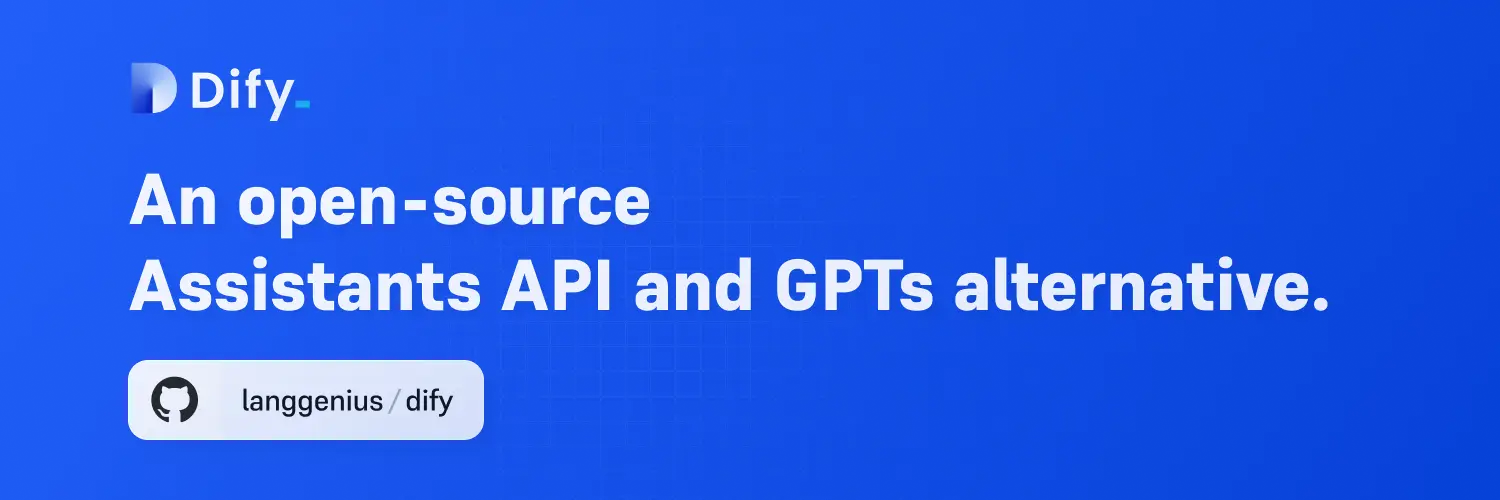
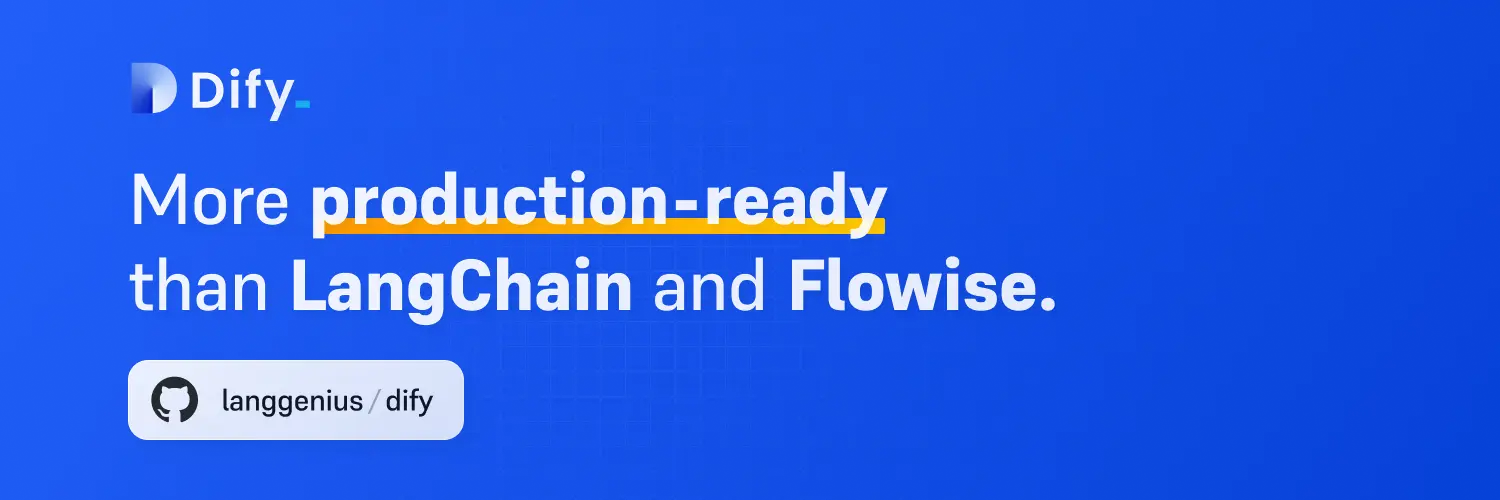
chore: update dify sponsor

Changed region(s): [[0.0613, 0.51, 0.8893, 0.66], [0.0613, 0.33, 0.6133, 0.48], [0.1533, 0.72, 0.3373, 0.9]]

diff --git a/helpers/sponsor.tsx b/helpers/sponsor.tsx
@@ -33,8 +33,8 @@ const sponsors: Sponsor[] = [
         logo: utils.absolutifyLink("/assets/sponsors/dify/logo.webp"),
         landingImage: utils.absolutifyLink("/assets/sponsors/dify/landing.webp"),
         link: "https://dify.ai/?utm_source=star-history",
-        logoSlogan: "Dify: The next-gen development platform. Create Assistants API and GPTs based on any LLMs.",
-        landingSlogan: "The next-gen development platform. Create Assistants API and GPTs based on any LLMs."
+        logoSlogan: "Dify: Open-source platform for building LLM apps, from agents to AI workflows.",
+        landingSlogan: "Open-source platform for building LLM apps, from agents to AI workflows."
     },
 ]
 
